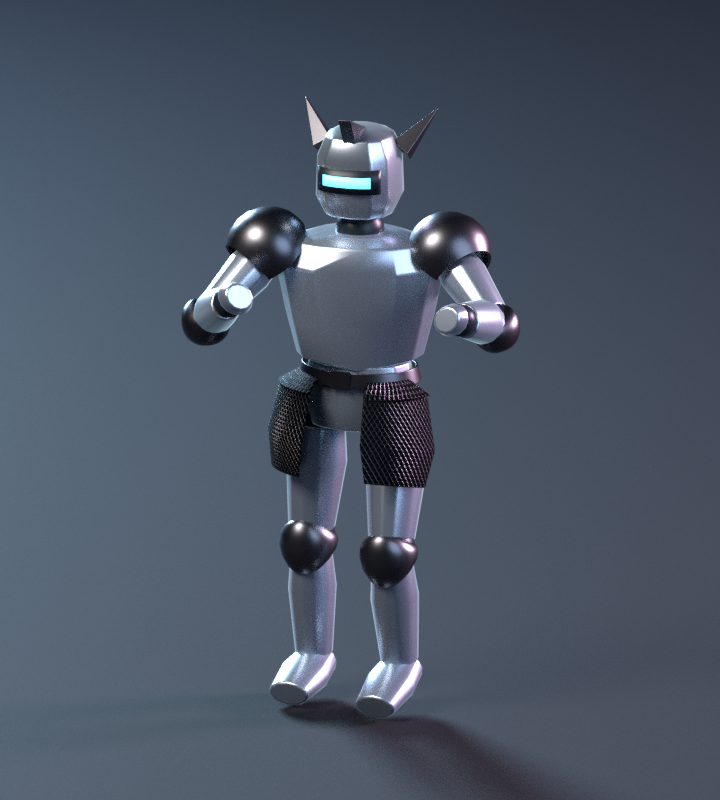
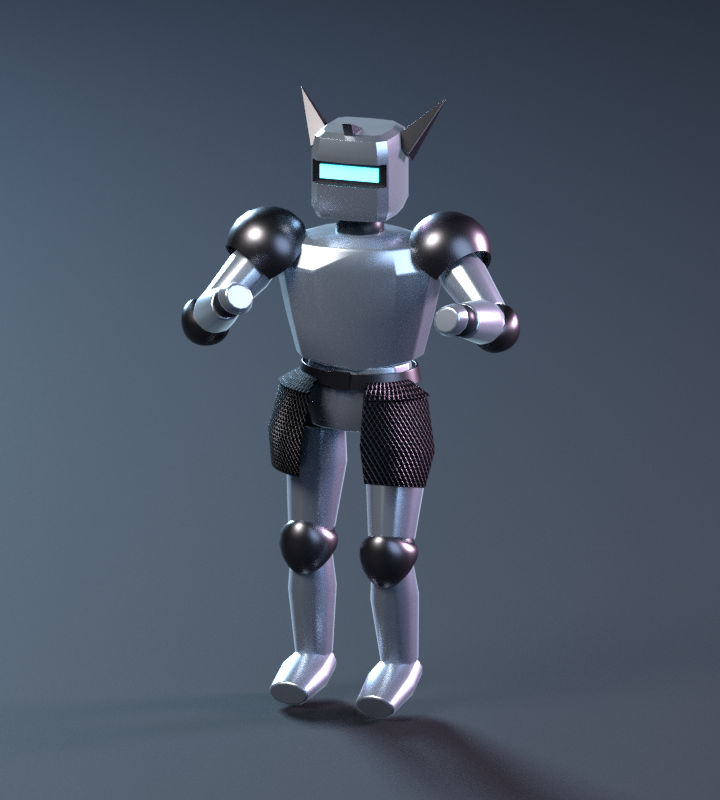
feat: box-shaped helmet with a recessed eye slot
Square off the helmet like the heroic player's helm so the crest and
horns sit on a flat top and upright sides. Replace the curved visor with
a slot cut by a boolean bar that wraps into the front corners; its faces
take dark iron and a smaller glowing pane leaves a black rim. Shrink the
crest to 0.8 about its base and enlarge the horns 1.2 from their roots.
Add a box() helper, also used for the belt buckle.

Changed region(s): [[0.3972, 0.125, 0.6111, 0.3125]]

diff --git a/dev-samples/3d-stage1/rigged-armor/build.py b/dev-samples/3d-stage1/rigged-armor/build.py
@@ -277,6 +277,19 @@ def joint(rig, bone_name, radius, mat):
     return attach(obj, rig, bone_name, mat)
 
 
+def box(rig, bone_name, name, center, half_size, mat, bevel_width):
+    """Rounded rigid block given by its center and half extents."""
+    bpy.ops.mesh.primitive_cube_add(location=center)
+    obj = bpy.context.object
+    obj.name = name
+    obj.scale = half_size
+    # attach() reads matrix_world, which only picks up the scale after an update.
+    bpy.context.view_layer.update()
+    bevel = attach(obj, rig, bone_name, mat).modifiers['Forged edge']
+    bevel.width, bevel.segments = bevel_width, 3
+    return obj
+
+
 # Hip armor rings on the pelvis bone: (distance along bone, half-width, half-depth).
 HIP_RINGS = [(0, .17, .12), (.08, .19, .14), (.205, .16, .12)]
 
@@ -307,7 +320,11 @@ def helmet_crest_and_horns(rig, mat):
     # A thin plate, a horn-like triangle from the side: its base runs along
     # the top of the helm and it sweeps forward and up past the visor.
     profile = [heroic(0, -.02, .985), heroic(0, -.17, .955), heroic(0, -.23, 1.063)]
-    vertices = [(side * .02, p.y, p.z) for side in (-1, 1) for p in profile]
+    # Shrunk about the middle of its base, so it stays seated on the helmet.
+    crest_scale = .8
+    base = (profile[0] + profile[1]) / 2
+    profile = [base + (point - base) * crest_scale for point in profile]
+    vertices = [(side * .02 * crest_scale, p.y, p.z) for side in (-1, 1) for p in profile]
     faces = [(0, 1, 2), (5, 4, 3), (0, 3, 4, 1), (1, 4, 5, 2), (2, 5, 3, 0)]
     mesh = bpy.data.meshes.new('Helmet crest')
     mesh.from_pydata(vertices, [], faces)
@@ -320,12 +337,14 @@ def helmet_crest_and_horns(rig, mat):
     crest = bpy.data.objects.new('Helmet crest', mesh)
     bpy.context.collection.objects.link(crest)
     attach(crest, rig, 'head', mat).modifiers['Forged edge'].width = .003
-    # Four-sided horns from the sides of the helm, out, back and up.
+    # Four-sided horns from the sides of the helm, out, back and up; enlarged
+    # from their roots.
+    horn_scale = 1.2
     for side, sign in (('L', 1), ('R', -1)):
         start = heroic(sign * .15, 0, .90)
-        end = heroic(sign * .27, .11, 1.06)
-        delta = end - start
-        bpy.ops.mesh.primitive_cone_add(vertices=4, radius1=.055 * .8, radius2=0,
+        delta = (heroic(sign * .27, .11, 1.06) - start) * horn_scale
+        end = start + delta
+        bpy.ops.mesh.primitive_cone_add(vertices=4, radius1=.055 * .8 * horn_scale, radius2=0,
                                         depth=delta.length, location=(start + end) / 2)
         horn = bpy.context.object
         horn.name = f'Helmet horn {side}'
@@ -364,14 +383,7 @@ def belt(rig, strap_mat, buckle_mat):
     # Buckle: a plain square plate, just proud of the strap.
     # The hip armor flares downward, so clear the strap's lower (outer) edge.
     front = hip_radius(BELT_Z - BELT_WIDTH / 2)[1] + .009 + .004
-    bpy.ops.mesh.primitive_cube_add(location=(0, -front, BELT_Z))
-    buckle = bpy.context.object
-    buckle.name = 'Belt buckle'
-    buckle.scale = (.03, .004, .028)
-    # attach() reads matrix_world, which only picks up the scale after an update.
-    bpy.context.view_layer.update()
-    bevel = attach(buckle, rig, 'pelvis', buckle_mat).modifiers['Forged edge']
-    bevel.width, bevel.segments = .003, 3
+    box(rig, 'pelvis', 'Belt buckle', (0, -front, BELT_Z), (.03, .004, .028), buckle_mat, .003)
 
 
 def diagonal_waist_plates(rig, mat):
@@ -446,8 +458,9 @@ def build_armor(rig):
         vertex.co.x *= 1.1
     breastplate.data.update()
     joint(rig, 'neck', .075, dark)
-    helmet_rings = [(-.035,.10,.105),(.025,.13,.13),
-                    (.15,.125,.13),(.21,.10,.105),(.23,.055,.06)]
+    # A rounded box like the heroic player's helm: flat top, upright sides.
+    helmet_rings = [(-.035,.115,.115),(.0,.13,.13),
+                    (.17,.13,.13),(.215,.12,.12),(.23,.10,.10)]
     helmet = plate(rig, 'head', 'Helmet', helmet_rings, helm)
     matrix = rig.data.bones['head'].matrix_local
     for row, (along, width, depth) in enumerate(helmet_rings):
@@ -455,32 +468,29 @@ def build_armor(rig):
             angle = i * 2 * math.pi / 12
             x, z = math.sin(angle), math.cos(angle)
             helmet.data.vertices[row * 12 + i].co = matrix @ Vector((
-                width * math.copysign(abs(x) ** .8, x), along,
-                depth * math.copysign(abs(z) ** .8, z)))
+                width * math.copysign(abs(x) ** .45, x), along,
+                depth * math.copysign(abs(z) ** .45, z)))
     helmet.data.update()
-    # Visor follows head, with front toward -Y in world space.
-    def curved_visor(name, width, height, offset, mat):
-        vertices = []
-        for z in (1.66 - height / 2, 1.66 + height / 2):
-            for i in range(25):
-                x = width * (i / 24 - .5)
-                y = -.13 * (1 - (abs(x) / .128) ** 2.5) ** .4 - offset
-                vertices.append((x, y, z))
-        mesh = bpy.data.meshes.new(name)
-        mesh.from_pydata(vertices, [], [(i, i + 1, i + 26, i + 25) for i in range(24)])
-        mesh.update()
-        obj = bpy.data.objects.new(name, mesh)
-        bpy.context.collection.objects.link(obj)
-        attach(obj, rig, 'head', mat)
-        obj.modifiers['Forged edge'].width = .002
-        shell = obj.modifiers.new('Visor thickness', 'SOLIDIFY')
-        shell.thickness = .004
-        for face in mesh.polygons:
-            face.use_smooth = True
-    curved_visor('Visor curved rim', .20, .075, .008, dark)
+    # Eye slot: a horizontal bar subtracted from the helmet front. It runs a
+    # little past the helmet's width, so it cuts into the rounded front
+    # corners and the recess shows from the side too. The cut faces take the
+    # cutter's dark iron, and a smaller glowing pane at the back leaves a
+    # black rim around the light.
+    slot_z, slot_half_height, slot_back = 1.68, .036, -.10
+    cutter = box(rig, 'head', 'Eye slot cutter', (0, slot_back - .025, slot_z),
+                 (.14, .025, slot_half_height), trim, .006)
+    cutter.hide_render = True
+    cutter.display_type = 'WIRE'
+    slot = helmet.modifiers.new('Eye slot', 'BOOLEAN')
+    slot.operation, slot.solver, slot.object = 'DIFFERENCE', 'EXACT', cutter
+    slot.material_mode = 'TRANSFER'
+    bpy.context.view_layer.objects.active = helmet
+    bpy.ops.object.modifier_move_to_index(modifier=slot.name, index=0)
     glow = material('Player visor glow', (.3, .9, 1.0), roughness=.35,
                     emission=(.1, .75, 1.0), strength=2.5)
-    curved_visor('Visor illuminated opening', .15, .032, .014, glow)
+    # Just in front of the slot's back wall (not on it, or the two flicker).
+    box(rig, 'head', 'Eye window', (0, slot_back - .0035, slot_z),
+        (.092, .002, .021), glow, .001)
     helmet_crest_and_horns(rig, trim)
     for side in ('L','R'):
         for part, radius in [('upper_arm',.085),('forearm',.062),('hand',.05),

diff --git a/dev-samples/3d-stage1/rigged-armor/README.md b/dev-samples/3d-stage1/rigged-armor/README.md
@@ -31,9 +31,14 @@ Rotation で回転させる。回転はボーンのローカル座標。
 肩当ては胸側の側面を切り欠いた中空の外装で、腕の付け根が入る余地を設けている。
 肘当てと膝当ても中空の殻で、曲がる軸の内側（肘は前、膝は後ろ）が開いている。
 開口部に向かって帯の幅が楕円状に狭まり、端は脚や腕に寄せて丸く閉じる。
+兜は heroic の主人公と同じく、天面が平らで側面が立った角の丸い箱形。
+覗き窓は兜から横長の棒（`Eye slot cutter`、レンダリングでは非表示）をブーリアンで
+引いた溝で、横から見ても前の角に切り込みが見える。溝の内側は黒い鉄で、奥の
+一回り小さい水色に光る窓の周りが黒い縁になる。棒を動かすと溝の位置や大きさを変えられる。
 兜には heroic の主人公と同じ、黒い鉄のとさかと角を付けている（`head` に固定）。
 とさかは薄い三角の板で、頭頂から覗き窓の先へ前上がりに反る。角は四角錐で、
-兜の側面から外・後ろ・上へ伸びる。heroic の頭の寸法を0.8倍して合わせている。
+兜の側面から外・後ろ・上へ伸びる。heroic の頭の寸法を0.8倍して合わせたうえで、
+とさかは土台の中心を基準にさらに0.8倍、角は付け根を基準に1.2倍にしている。
 胸甲は腹部まで伸ばし、正面の下端は中央が少し下がる浅いV字にしている。
 腰甲の上部、胸甲の裾の下に黒い鉄の平たいベルト（幅約4.5cm）を巻いている。
 上ほど細い腰甲の傾きに沿って密着し、正面に黒い鉄の四角い板のバックルを付けている。
